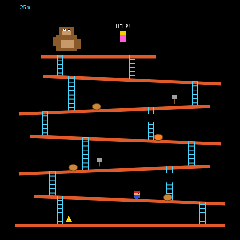
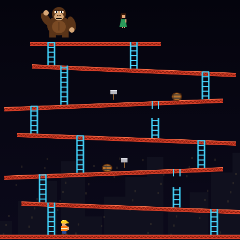
El Goril·la: bigues de ferro, barrils que giren i personatges nostres
Les bigues eren ratlles taronges, els barrils unes el·lipses i el
goril·la uns quants rectangles. A més, el protagonista portava gorra
vermella i granota blava: s'assemblava massa al personatge d'una
empresa viva.

Ara les bigues són de ferro amb la gelosia i els reblons, els barrils
són de fusta amb cèrcols i les dogues giren mentre rodolen, les flames
tenen resplendor, i al fons hi ha una ciutat de nit apagada. El goril·la
és rodó i peludet i es pica el pit, el protagonista és un obrer amb casc
groc i armilla taronja, i la noia que espera a dalt va de verd i diu
AJUDA! en lloc de HELP!. Les mides de tot són les mateixes.

Claude-Session: https://claude.ai/code/session_01KrPPCHVvtTXjrWEZj9T731

diff --git a/donkey_kong.html b/donkey_kong.html
@@ -521,18 +521,37 @@ function update(dt){
 }
 
 // ===== DIBUIX =====
+// Els personatges són nostres: un obrer amb casc i armilla (no el de la
+// màquina, que té amo), un goril·la de pèl fosc i una noia que demana
+// ajuda. Les bigues són de ferro amb els reblons i les creus de la
+// gelosia, i els barrils són de fusta amb cèrcols i giren en rodolar.
 function dibuixaMario(){
-  const m=mario,px=Math.round(m.x),py=Math.round(m.y);
-  const pas=Math.floor(m.anim/140)%2;
-  x.fillStyle='#e02020';x.fillRect(px-7,py-18,14,4);           // gorra
-  x.fillStyle='#f0b080';x.fillRect(px-6,py-14,12,5);           // cara
-  x.fillStyle='#000';x.fillRect(px+(m.dir>0?2:-4),py-13,2,2);
-  x.fillStyle='#3050e0';x.fillRect(px-7,py-9,14,6);            // granota
-  x.fillStyle='#e02020';x.fillRect(px-7,py-9,4,3);x.fillRect(px+3,py-9,4,3);
-  x.fillStyle='#3050e0';
-  if(m.estat==='salt'){x.fillRect(px-8,py-3,5,3);x.fillRect(px+3,py-3,5,3)}
-  else if(pas){x.fillRect(px-7,py-3,5,3);x.fillRect(px+2,py-3,5,3)}
-  else{x.fillRect(px-3,py-3,6,3)}
+  const m=mario,px=Math.round(m.x),py=Math.round(m.y),d=m.dir>0?1:-1;
+  const pas=Math.floor(m.anim/140)%2,salt=m.estat==='salt',esc=m.estat==='escala';
+  // cames (texans) i botes
+  x.fillStyle='#2a4a9a';
+  if(esc){x.fillRect(px-5,py-8+(pas?-2:0),4,7);x.fillRect(px+1,py-8+(pas?0:-2),4,7)}
+  else if(salt){x.fillRect(px-7,py-7,4,5);x.fillRect(px+3,py-7,4,5)}
+  else if(pas){x.fillRect(px-6,py-8,4,7);x.fillRect(px+2,py-8,4,6)}
+  else{x.fillRect(px-4,py-8,4,7);x.fillRect(px,py-8,4,7)}
+  x.fillStyle='#4a2a10';
+  if(salt){x.fillRect(px-8,py-3,5,3);x.fillRect(px+3,py-3,5,3)}
+  else if(pas&&!esc){x.fillRect(px-7,py-2,5,2);x.fillRect(px+2,py-2,5,2)}
+  else{x.fillRect(px-5,py-2,5,2);x.fillRect(px+1,py-2,5,2)}
+  // el cos: armilla taronja amb les franges que brillen
+  x.fillStyle='#ff7a10';x.fillRect(px-6,py-16,12,9);
+  x.fillStyle='#f4f4c0';x.fillRect(px-6,py-12,12,2);
+  // els braços
+  x.fillStyle='#e8a878';
+  if(esc){x.fillRect(px-8,py-20+(pas?0:3),3,6);x.fillRect(px+5,py-20+(pas?3:0),3,6)}
+  else if(salt){x.fillRect(px-9,py-19,3,5);x.fillRect(px+6,py-19,3,5)}
+  else{x.fillRect(px+d*6-(d>0?0:3),py-15,3,6)}
+  // el cap i el casc groc
+  x.fillStyle='#e8a878';x.fillRect(px-4,py-22,8,6);
+  x.fillStyle='#1a1a1a';if(!esc)x.fillRect(px+d*2-(d>0?0:1),py-20,2,2);
+  x.fillStyle='#ffd020';x.fillRect(px-6,py-25,12,4);x.fillRect(px-4,py-27,8,2);
+  x.fillRect(d>0?px+4:px-8,py-23,4,2);                          // la visera
+  x.fillStyle='#fff6a0';x.fillRect(px-3,py-27,3,1);
   if(m.martell>0){
     // Els dos ultims segons el martell parpelleja, com a la maquina, i a sobre
     // del cap hi ha la barreta del temps que li queda: si no, se t'acaba sense
@@ -540,9 +559,9 @@ function dibuixaMario(){
     const acabant=m.martell<2000;
     if(!acabant||Math.floor(animT/90)%2){
       const alt=Math.floor(m.anim/120)%2;
-      x.fillStyle='#a0a0a0';
-      x.fillRect(px+m.dir*10-4,py-(alt?30:14),8,7);
       x.fillStyle='#8a5a2a';x.fillRect(px+m.dir*10-1,py-(alt?24:12),2,8);
+      x.fillStyle='#b8b8c0';x.fillRect(px+m.dir*10-5,py-(alt?31:15),10,7);
+      x.fillStyle='#e8e8f0';x.fillRect(px+m.dir*10-5,py-(alt?31:15),10,2);
     }
     x.fillStyle='#402000';x.fillRect(px-13,py-40,26,4);
     x.fillStyle=acabant?'#ff5020':'#ffd000';
@@ -550,32 +569,62 @@ function dibuixaMario(){
   }
 }
 function dibuixaGorila(){
-  const px=dk.x,py=dk.y,b=Math.floor(animT/300)%2;
-  x.fillStyle='#8a5a2a';
-  x.fillRect(px-2,py-4,44,34);                       // cos
-  x.fillRect(px+4,py-20,32,18);                      // cap
-  x.fillStyle='#c89a6a';x.fillRect(px+10,py-12,20,9);x.fillRect(px+8,py+8,28,16);
-  x.fillStyle='#fff';x.fillRect(px+12,py-17,6,5);x.fillRect(px+22,py-17,6,5);
-  x.fillStyle='#000';x.fillRect(px+14,py-16,3,3);x.fillRect(px+24,py-16,3,3);
-  x.fillStyle='#8a5a2a';
-  x.fillRect(px-10,py+(b?0:6),12,20);x.fillRect(px+38,py+(b?6:0),12,20);   // braços
+  const px=dk.x,py=dk.y,b=Math.floor(animT/300)%2,cx=px+20;
+  const PEL='#5a3418',PEL2='#7a4a24',PELL='#d8a878';
+  // les cames
+  x.fillStyle=PEL;x.fillRect(px+2,py+20,12,12);x.fillRect(px+26,py+20,12,12);
+  // el cos, gros i arrodonit, amb el pit més clar
+  x.fillStyle=PEL;x.beginPath();x.ellipse(cx,py+10,22,18,0,0,7);x.fill();
+  x.fillStyle=PEL2;x.beginPath();x.ellipse(cx,py+12,13,12,0,0,7);x.fill();
+  x.fillStyle='rgba(0,0,0,.18)';x.fillRect(cx-1,py+3,2,16);
+  // els braços: es colpeja el pit, un i l'altre
+  x.fillStyle=PEL;
+  x.beginPath();x.ellipse(px-4,py+(b?6:-2),7,14,b?.3:-.6,0,7);x.fill();
+  x.beginPath();x.ellipse(px+44,py+(b?-2:6),7,14,b?.6:-.3,0,7);x.fill();
+  x.fillStyle=PELL;x.beginPath();x.arc(px-4,py+(b?18:-14),5,0,7);x.fill();x.beginPath();x.arc(px+44,py+(b?-14:18),5,0,7);x.fill();
+  // el cap
+  x.fillStyle=PEL;x.beginPath();x.arc(cx,py-12,13,0,7);x.fill();
+  x.fillStyle=PELL;x.beginPath();x.ellipse(cx,py-7,9,7,0,0,7);x.fill();
+  x.fillStyle=PELL;x.fillRect(cx-9,py-19,18,6);
+  x.fillStyle='#fff';x.fillRect(cx-7,py-18,5,4);x.fillRect(cx+2,py-18,5,4);
+  x.fillStyle='#000';x.fillRect(cx-5,py-17,2,3);x.fillRect(cx+4,py-17,2,3);
+  x.fillStyle='#3a1a08';x.fillRect(cx-9,py-20,18,2);                       // les celles, enfadat
+  x.fillStyle='#2a1208';x.fillRect(cx-3,py-10,2,2);x.fillRect(cx+1,py-10,2,2);
+  x.fillStyle='#fff';x.fillRect(cx-5,py-5,10,3);x.fillStyle='#000';x.fillRect(cx-5,py-4,10,1);
+}
+// una biga de ferro: el perfil de dalt i de baix i la gelosia entremig
+function dibuixaBiga(b){
+  const col=b.cinta?['#9a9aa4','#6a6a74','#c8c8d0']:b.puja?['#e0b000','#8a6a00','#ffe060']:['#d8402a','#8a2010','#ff7a50'];
+  const x1=b.x1,y1=b.y1,x2=b.x2,y2=b.y2,dx=x2-x1,len=Math.hypot(dx,y2-y1)||1,pend=(y2-y1)/dx||0;
+  x.save();x.translate(x1,y1);x.transform(1,pend,0,1,0,0);
+  const w=dx;
+  x.beginPath();x.rect(Math.min(0,w),0,Math.abs(w),8);x.clip();
+  x.fillStyle=col[1];x.fillRect(Math.min(0,w),0,Math.abs(w),8);
+  x.fillStyle=col[0];x.fillRect(Math.min(0,w),0,Math.abs(w),2);x.fillRect(Math.min(0,w),6,Math.abs(w),2);
+  x.strokeStyle=col[0];x.lineWidth=1.3;x.beginPath();
+  for(let k=Math.min(0,w);k<Math.max(0,w)-1;k+=8){x.moveTo(k,2);x.lineTo(k+4,6);x.lineTo(k+8,2)}x.stroke();
+  x.fillStyle=col[2];x.fillRect(Math.min(0,w),0,Math.abs(w),1);
+  x.restore();
 }
 function draw(){
-  x.fillStyle='#000';x.fillRect(0,0,W,H);
-  // bigues: les taronges son de sempre, les grises son cintes i les grogues
+  // el fons: fosc, amb una ciutat de nit molt apagada darrere
+  const gf=x.createLinearGradient(0,0,0,H);gf.addColorStop(0,'#04040c');gf.addColorStop(1,'#0c0a1c');
+  x.fillStyle=gf;x.fillRect(0,0,W,H);
+  x.fillStyle='#10101e';
+  for(let i=0;i<12;i++){const bw=28+(i*13)%22,bh=60+(i*37)%140,bx=i*40-6;x.fillRect(bx,H-bh,bw,bh)}
+  x.fillStyle='rgba(255,220,120,.10)';
+  for(let i=0;i<60;i++){const wx=(i*53)%W,wy=H-20-(i*31)%170;x.fillRect(wx,wy,3,4)}
+  // bigues: les vermelles son de sempre, les grises son cintes i les grogues
   // son els ascensors
-  x.lineWidth=7;x.lineCap='butt';
   for(const b of BIGUES){
-    x.strokeStyle=b.cinta?'#b4b4bc':b.puja?'#ffd000':'#e05a2a';
-    x.beginPath();x.moveTo(b.x1,b.y1+3);x.lineTo(b.x2,b.y2+3);x.stroke();
+    dibuixaBiga(b);
     if(b.cinta){
       // les ratlletes es mouen cap on va la cinta, perque es vegi el sentit
       const d=b.cinta*cintaDir,off=((animT*0.05*d)%22+22)%22;
-      x.strokeStyle='#4a4a52';x.lineWidth=3;
+      x.strokeStyle='#3a3a42';x.lineWidth=3;
       for(let px=Math.min(b.x1,b.x2)+off;px<Math.max(b.x1,b.x2);px+=22){
         x.beginPath();x.moveTo(px,b.y1+1);x.lineTo(px+d*8,b.y1+5);x.stroke();
       }
-      x.lineWidth=7;
     }
     if(b.puja){
       x.fillStyle='#8a6a00';
@@ -585,9 +634,11 @@ function draw(){
   // escales
   for(const e of ESCALES){
     const dalt=bigaY(e.g+1,e.x),baix=bigaY(e.g,e.x);
-    x.strokeStyle='#4ad8ff';x.lineWidth=2;
     const fi=e.trencada?baix-38:dalt;
+    x.strokeStyle='#1a7a9a';x.lineWidth=3;
     x.beginPath();x.moveTo(e.x-6,baix);x.lineTo(e.x-6,fi);x.moveTo(e.x+6,baix);x.lineTo(e.x+6,fi);x.stroke();
+    x.strokeStyle='#4ad8ff';x.lineWidth=2;
+    x.beginPath();x.moveTo(e.x-6.5,baix);x.lineTo(e.x-6.5,fi);x.moveTo(e.x+5.5,baix);x.lineTo(e.x+5.5,fi);x.stroke();
     for(let y=baix-6;y>fi;y-=9){x.beginPath();x.moveTo(e.x-6,y);x.lineTo(e.x+6,y);x.stroke()}
     if(e.trencada){
       x.beginPath();x.moveTo(e.x-6,dalt);x.lineTo(e.x-6,dalt+14);x.moveTo(e.x+6,dalt);x.lineTo(e.x+6,dalt+14);x.stroke();
@@ -596,14 +647,19 @@ function draw(){
   // reblons
   if(reblons)for(const r of reblons){
     if(r.tret)continue;
-    x.fillStyle='#ffd000';x.beginPath();x.arc(r.x,bigaY(r.g,r.x)+3,4,0,7);x.fill();
+    const ry=bigaY(r.g,r.x)+3;
+    x.fillStyle='#8a6a00';x.beginPath();x.arc(r.x,ry+1,5,0,7);x.fill();
+    x.fillStyle='#ffd000';x.beginPath();x.arc(r.x,ry,4,0,7);x.fill();
+    x.fillStyle='#fff6a0';x.fillRect(r.x-2,ry-2,2,2);
   }
   // pastissos
   for(const pt of pastissos){
+    x.fillStyle='#d8d8e0';x.beginPath();x.ellipse(pt.x,pt.y+2,12,4,0,0,7);x.fill();
     x.fillStyle='#f0d060';
     x.beginPath();x.ellipse(pt.x,pt.y,11,6,0,0,7);x.fill();
     x.fillStyle='#c05020';
     x.beginPath();x.ellipse(pt.x,pt.y-3,9,4,0,0,7);x.fill();
+    x.fillStyle='#fff';x.fillRect(pt.x-6,pt.y-4,2,1);x.fillRect(pt.x+3,pt.y-3,2,1);
     const t=Math.floor(animT/110)%2;
     x.fillStyle=t?'#ffd000':'#ff6000';
     x.beginPath();x.moveTo(pt.x,pt.y-14);x.lineTo(pt.x+5,pt.y-6);x.lineTo(pt.x-5,pt.y-6);x.closePath();x.fill();
@@ -620,35 +676,53 @@ function draw(){
   }
   // martells
   for(const h of martells)if(!h.agafat){
-    x.fillStyle='#a0a0a0';x.fillRect(h.x-6,h.y,12,8);
     x.fillStyle='#8a5a2a';x.fillRect(h.x-1,h.y+8,2,10);
+    x.fillStyle='#b8b8c0';x.fillRect(h.x-6,h.y,12,8);
+    x.fillStyle='#e8e8f0';x.fillRect(h.x-6,h.y,12,2);
   }
-  // barril de foc i escala del gorila
   dibuixaGorila();
-  // Pauline
-  x.fillStyle='#ff5ce0';x.fillRect(pauline.x-6,pauline.y,12,16);
-  x.fillStyle='#f0d000';x.fillRect(pauline.x-6,pauline.y-8,12,8);
-  x.fillStyle='#fff';x.font='11px monospace';x.textAlign='center';
-  if(Math.floor(animT/500)%2)x.fillText('HELP!',pauline.x+2,pauline.y-14);
-  // botes
+  // la noia que espera a dalt de tot: vestit verd i cabells foscos
+  {const px=pauline.x,py=pauline.y,on=Math.floor(animT/500)%2;
+    x.fillStyle='#2a9a5a';x.beginPath();x.moveTo(px-7,py+16);x.lineTo(px+7,py+16);x.lineTo(px+4,py+2);x.lineTo(px-4,py+2);x.fill();
+    x.fillStyle='#e8a878';x.fillRect(px-3,py-7,7,7);x.fillRect(px-2,py+16,2,2);x.fillRect(px+1,py+16,2,2);
+    x.fillStyle='#3a1a0a';x.fillRect(px-4,py-9,9,3);x.fillRect(px-5,py-7,3,9);
+    x.fillStyle='#e8a878';x.fillRect(px+4,py+(on?-6:2),2,6);                // el braç que saluda
+    x.fillStyle='#fff';x.font='bold 11px monospace';x.textAlign='center';
+    if(on)x.fillText('AJUDA!',px+2,py-14);}
+  // botes: de fusta, amb cèrcols, que giren rodolant
   for(const b of botes){
-    x.fillStyle=b.foc?'#ff8020':'#c88a3a';
-    x.beginPath();x.ellipse(b.x,b.y,9,7,b.estat==='escala'?1.57:0,0,7);x.fill();
-    x.strokeStyle='#6a3a10';x.lineWidth=1.5;
-    x.beginPath();x.ellipse(b.x,b.y,9,7,b.estat==='escala'?1.57:0,0,7);x.stroke();
+    const dret=b.estat==='escala';
+    x.save();x.translate(b.x,b.y);
+    if(dret){
+      x.fillStyle=b.foc?'#4a7ad8':'#a0602a';x.beginPath();x.ellipse(0,0,9,7,0,0,7);x.fill();
+      x.strokeStyle=b.foc?'#2a4a9a':'#5a2a0a';x.lineWidth=1.5;x.beginPath();x.ellipse(0,0,9,7,0,0,7);x.stroke();
+      x.beginPath();x.ellipse(0,0,5,4,0,0,7);x.stroke();
+    }else{
+      x.fillStyle=b.foc?'#4a7ad8':'#b8742e';x.beginPath();x.ellipse(0,0,9,7,0,0,7);x.fill();
+      // les dogues giren segons cap on rodola
+      const a=(b.x*.25*(b.dir||1))%(Math.PI*2);x.strokeStyle=b.foc?'#2a4a9a':'#6a3a10';x.lineWidth=1.2;
+      for(let k=0;k<3;k++){const xx=Math.sin(a+k*2.09)*8;if(Math.cos(a+k*2.09)>0){x.beginPath();x.moveTo(xx,-6);x.lineTo(xx,6);x.stroke()}}
+      x.strokeStyle='#3a3a3a';x.lineWidth=2;x.beginPath();x.moveTo(-8,-3);x.lineTo(8,-3);x.moveTo(-8,3);x.lineTo(8,3);x.stroke();
+      x.strokeStyle=b.foc?'#2a4a9a':'#5a2a0a';x.lineWidth=1.5;x.beginPath();x.ellipse(0,0,9,7,0,0,7);x.stroke();
+    }
+    x.restore();
   }
-  // focs
+  // focs: una flama amb ulls i resplendor
   for(const f of focs){
     const t=Math.floor(animT/120)%2;
-    x.fillStyle=t?'#ffd000':'#ff6000';
-    x.beginPath();x.moveTo(f.x,f.y-18);x.lineTo(f.x+7,f.y-4);x.lineTo(f.x-7,f.y-4);x.closePath();x.fill();
+    x.fillStyle='rgba(255,140,0,.25)';x.beginPath();x.arc(f.x,f.y-9,12,0,7);x.fill();
+    x.fillStyle=t?'#ff6000':'#ff8a00';
+    x.beginPath();x.moveTo(f.x,f.y-(t?20:18));x.quadraticCurveTo(f.x+9,f.y-8,f.x+5,f.y-2);x.lineTo(f.x-5,f.y-2);x.quadraticCurveTo(f.x-9,f.y-8,f.x,f.y-(t?20:18));x.fill();
+    x.fillStyle='#ffe040';x.beginPath();x.ellipse(f.x,f.y-7,4,5,0,0,7);x.fill();
     x.fillStyle='#fff';x.fillRect(f.x-4,f.y-11,3,3);x.fillRect(f.x+1,f.y-11,3,3);
+    x.fillStyle='#000';x.fillRect(f.x-3,f.y-10,1.5,1.5);x.fillRect(f.x+2,f.y-10,1.5,1.5);
   }
   if(state!=='mor')dibuixaMario();
   else{
+    // el casc que roda i l'obrer estirat
     const px=mario.x,py=mario.y;
-    x.fillStyle='#e02020';x.save();x.translate(px,py-8);x.rotate(animT/120);
-    x.fillRect(-7,-8,14,16);x.restore();
+    x.fillStyle='#ff7a10';x.fillRect(px-9,py-6,16,6);x.fillStyle='#e8a878';x.fillRect(px+7,py-6,5,5);
+    x.save();x.translate(px-12,py-14);x.rotate(animT/120);x.fillStyle='#ffd020';x.fillRect(-6,-3,12,5);x.restore();
   }
   // alçada, com a la maquina
   x.fillStyle='#4ad8ff';x.font='12px monospace';x.textAlign='left';

diff --git a/sw.js b/sw.js
@@ -1,4 +1,4 @@
-const CACHE = 'jocs-v142';
+const CACHE = 'jocs-v143';
 const FILES = [
   '/Jocs/',
   '/Jocs/index.html',

diff --git a/CLAUDE.md b/CLAUDE.md
@@ -157,6 +157,30 @@ pastissos, els ascensors i els reblons— i amb el martell a la mà no pots ni
 pujar escales ni saltar). Quan calgui
 decidir alguna cosa, tirar cap a com era l'original.
 
+## Els dibuixos dels jocs
+
+En Carles va trobar que l'Atletisme es veia molt millor redibuixat i va
+demanar el mateix per a tots els que es poguessin millorar. **Només es toca
+el dibuix**: les mides de tot el que et pot tocar, les regles i els punts
+són els mateixos. Els que tenen aquest aspecte a posta no es toquen: les
+Raquetes i el Trencamaons són ratlles blanques com a la màquina, i els de
+vectors (Roques de l'Espai, els Tancs, el Túnel, l'Allunatge) són línies de
+colors perquè les màquines eren així.
+
+- **El Totterreny**: el paisatge va per capes (`capes`, pintades un sol cop
+  en llenços de 960 px): la Terra al cel, una base amb cúpules, dues
+  serralades i el terra de la lluna. Clots foscos amb vora, roques amb
+  cares, mines que fan pampallugues, plat volador amb cúpula, i un cotxe
+  lunar amb sis rodes que boten (`drawRover`, que també dibuixa l'enemic).
+- **L'Amunt**: del prat (turons i núvols) a l'espai; el cel es fa de posta i
+  de nit segons l'alçada. Plataformes de gespa, de metall amb motoret i de
+  fusta esquerdada, i un ninot rodó amb antena que s'estira i s'aixafa.
+- **El Goril·la**: bigues de ferro amb gelosia (`dibuixaBiga`), barrils de
+  fusta amb cèrcols que giren, flames amb resplendor i una ciutat de nit
+  apagada al fons. **Els personatges són nostres**: un obrer amb casc groc i
+  armilla, i no el de la gorra vermella i la granota blava, que és d'una
+  empresa viva; i una noia de verd que diu AJUDA!
+
 ## L'Atletisme: com es dibuixa
 
 En Carles va preguntar si se'n podien millorar els gràfics: era un ninot de
